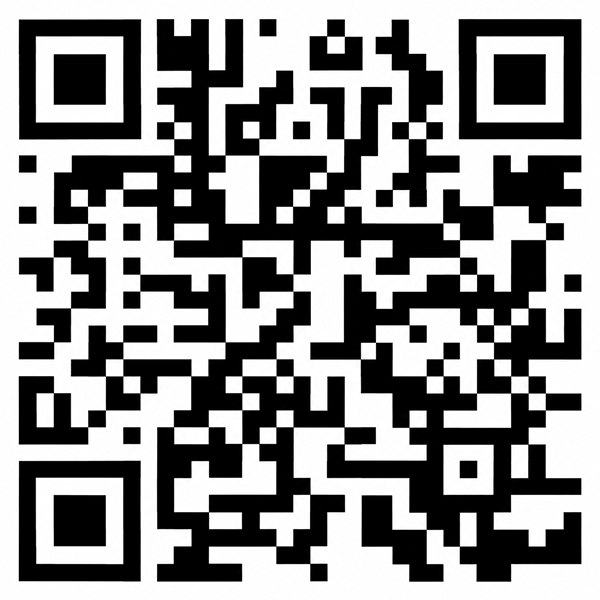
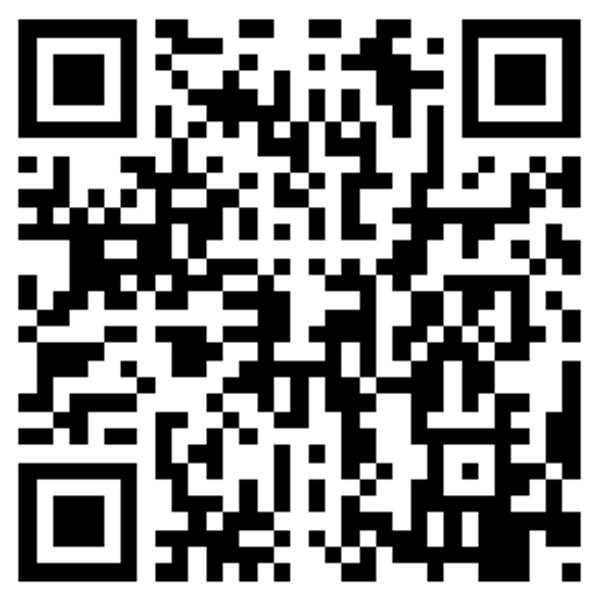
general fixes

diff --git a/frontend/src/features/draft/steps/export/components/image.module.scss b/frontend/src/features/draft/steps/export/components/image.module.scss
@@ -6,9 +6,9 @@
   border: 1px solid rgba(244, 246, 239, 0.12);
   background: url("../../../../../assets/illustrations/kora-export.png");
   background-color: var(--kora-ink);
-  background-position: right bottom;
-  background-repeat: no-repeat;
-  background-size: cover;
+  background-position: center;
+  background-repeat: repeat;
+  background-size: 300px;
   box-shadow: 0 22px 44px rgba(0, 0, 0, 0.35);
   padding: var(--space-4);
   display: flex;
@@ -21,8 +21,13 @@
   max-width: 100%;
   min-height: 600px;
 
+  @include ds.lg {
+    min-width: 100%;
+  }
+
   @include ds.md {
     font-size: var(--font-size-xs);
+    padding: var(--space-2);
   }
 
   &--export {
@@ -37,7 +42,6 @@
     align-items: center;
     text-align: center;
     gap: var(--space-1);
-    opacity: 0.5;
     margin-bottom: var(--space-4);
 
     & h2 {
@@ -55,6 +59,7 @@
       display: flex;
       align-items: center;
       gap: var(--space-2);
+      opacity: 0.5;
 
       & i {
         font-size: 20px;
@@ -144,6 +149,7 @@
     justify-content: space-between;
     gap: var(--space-4);
     width: 100%;
+    margin-top: var(--space-4);
   }
 
   &__credit {
@@ -151,30 +157,34 @@
     flex-direction: column;
     align-items: start;
     gap: var(--space-2);
-    width: 30%;
-
-    & img {
-      width: auto;
-      height: 40px;
-    }
+    color: var(--kora-turf);
 
     & span {
       display: flex;
       gap: var(--space-1);
-      color: var(--kora-turf);
 
       & strong {
         color: var(--kora-chalk);
       }
     }
-
-    & small {
-      color: var(--kora-chalk);
-    }
   }
 
-  &__qrs {
+  &__author {
     display: flex;
+    flex-direction: column;
+    align-items: end;
+    gap: var(--space-2);
+    color: var(--kora-turf);
+
+    & span {
+      display: flex;
+      flex-direction: column;
+      align-items: end;
+
+      & strong {
+        color: var(--kora-chalk);
+      }
+    }
   }
 
   &__qr {
@@ -189,8 +199,8 @@
       border-radius: 5px;
       box-shadow: 0 5px 10px rgba(0, 0, 0, 0.5);
       overflow: hidden;
-      height: 100px;
-      width: 100px;
+      height: 150px;
+      width: 150px;
       border: 2px solid rgba(7, 159, 104, 0.55);
       padding: var(--space-2);
     }

diff --git a/frontend/src/features/draft/steps/export/components/image.tsx b/frontend/src/features/draft/steps/export/components/image.tsx
@@ -3,8 +3,8 @@ import { FormattedDate, FormattedMessage, useIntl } from "react-intl";
 import type { DraftConfig } from "../../../draft.types";
 import styles from "./image.module.scss";
 import koraRosterLogo from "../../../../../assets/logo/kora-roster-logo.webp";
-import kRosterLogo from "/favicon.png";
 import qrKoraRoster from "../../../../../assets/qrs/qr_kora_roster.png";
+import qrPortfolio from "../../../../../assets/qrs/qr_portfolio.png";
 
 interface ImageProps {
   config: DraftConfig;
@@ -60,16 +60,20 @@ export const Image = forwardRef<HTMLDivElement, ImageProps>(function Image({ con
 
       <div className={styles.image__footer}>
         <div className={styles.image__credit}>
-          <img src={kRosterLogo} alt="" />
           <span>
             <FormattedMessage id="image.credit" />
             <strong>Kora</strong>
           </span>
-        </div>
-        <div className={styles.image__qrs}>
           <div className={styles.image__qr}>
-            <small>Web</small>
-            <img src={qrKoraRoster} alt="QR Code Kora Roster Web" />
+            <img src={qrKoraRoster} alt="QR Code for Kora Roster Web" />
+          </div>
+        </div>
+        <div className={styles.image__author}>
+          <span>
+            <FormattedMessage id="image.author" />
+          </span>
+          <div className={styles.image__qr}>
+            <img src={qrPortfolio} alt="QR Code for Diego Daniel Caceres Portfolio" />
           </div>
         </div>
       </div>
